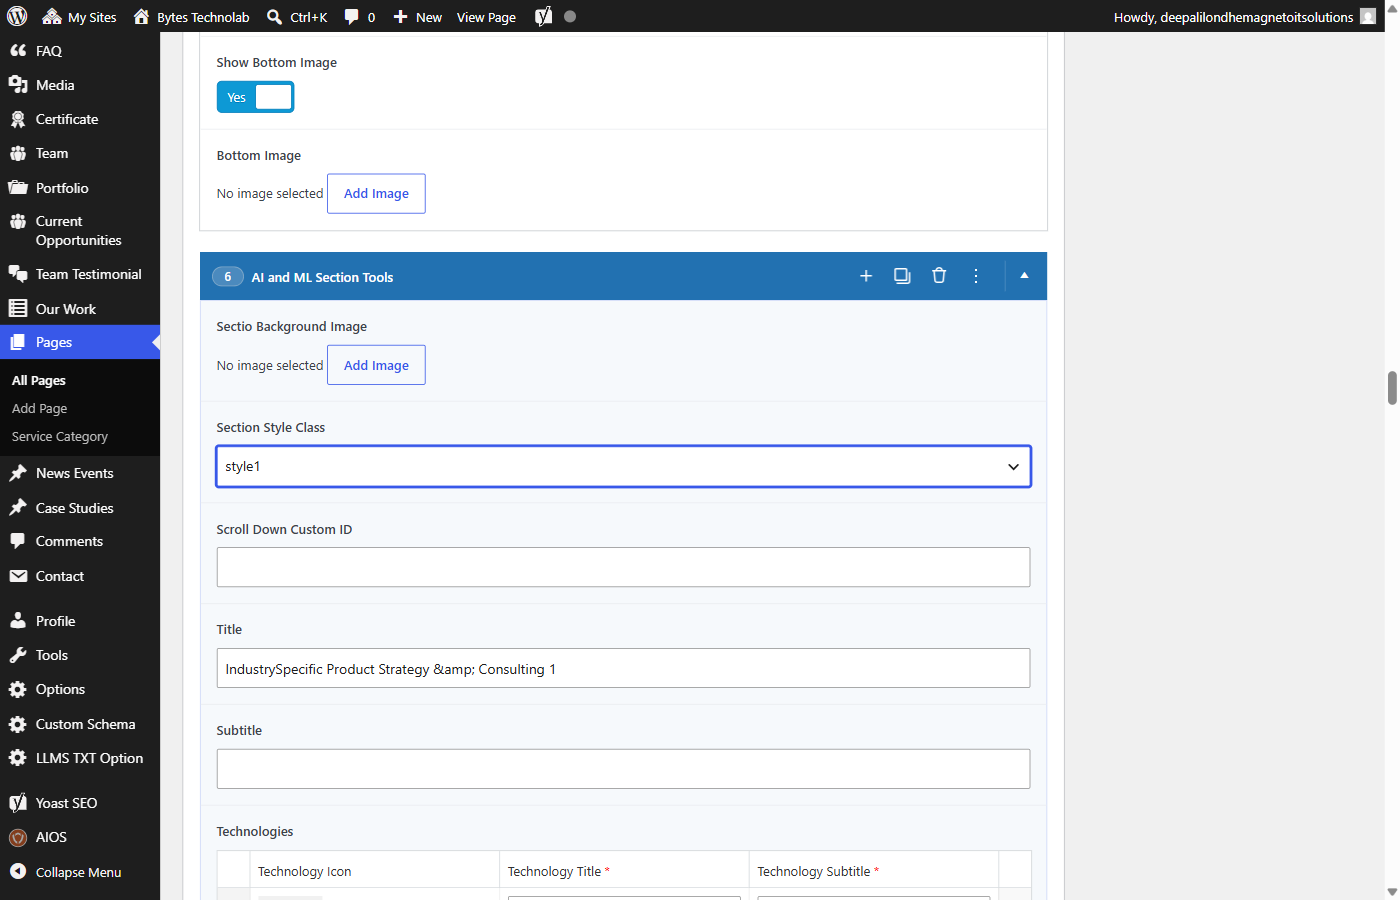
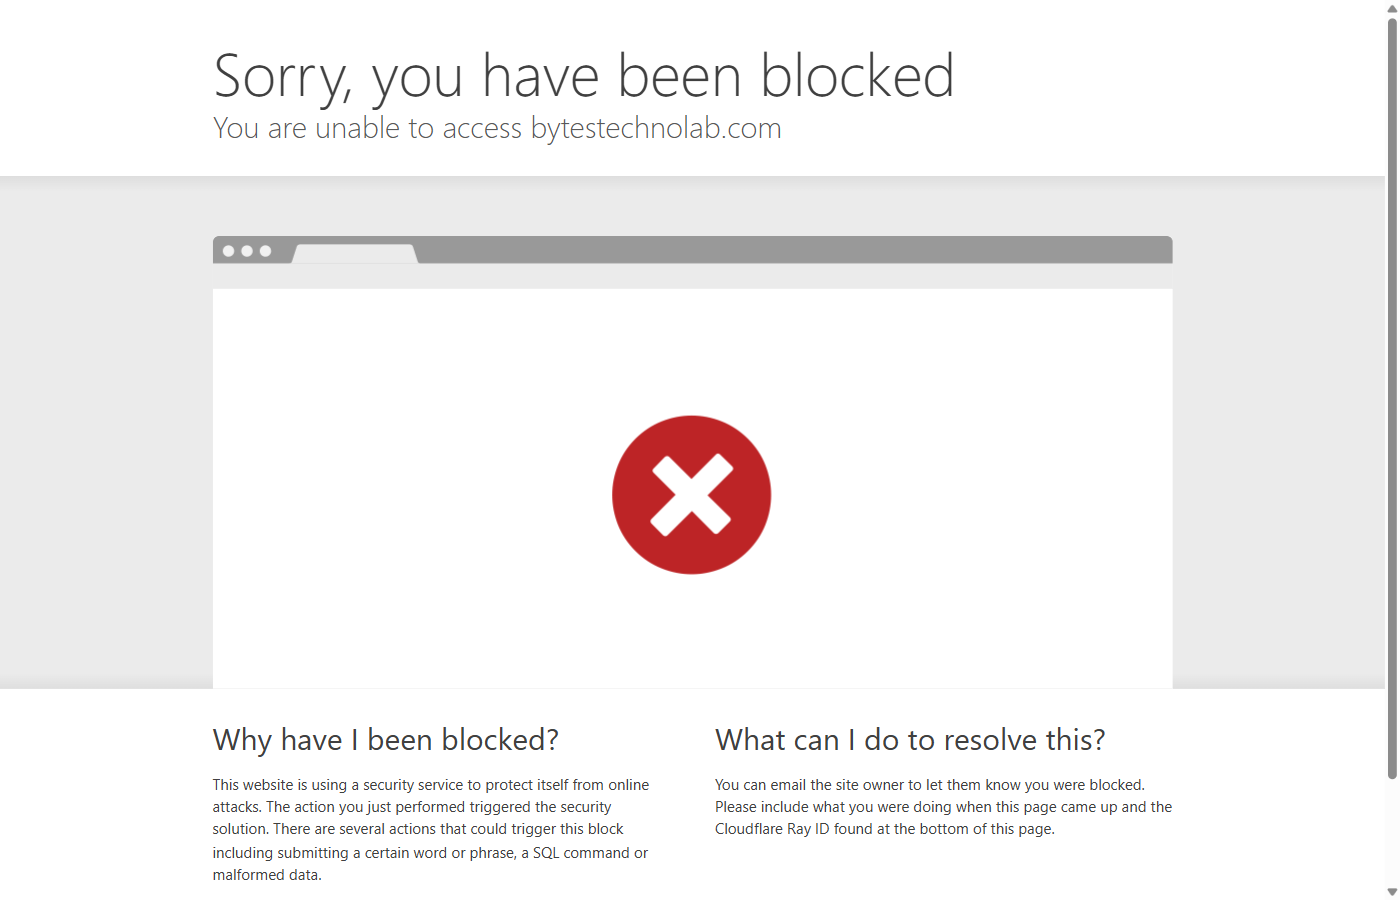
Use jQuery for Add Row and add 15s wait before close

diff --git a/cross_verify.js b/cross_verify.js
@@ -134,8 +134,10 @@ async function showMismatchPopup(page, mismatches) {
     document.body.appendChild(overlay);
   }, { rows, count });
 
-  console.log('  → Popup shown on screen. Waiting 4 seconds...');
-  await page.waitForTimeout(4000);
+  console.log('\n  → Script finished. Waiting 15 seconds so you can manually click Update if it failed...');
+  await page.waitForTimeout(15000);
+
+  console.log('\nClosing Chrome browser...');
 }
 
 // ─── Show success popup ───────────────────────────────────────────────────────
@@ -225,11 +227,17 @@ async function updateMismatchedFields(page, mismatches) {
 
     // Auto-add rows for Industries if missing
     if (count === 0 && field.name.startsWith('Industry')) {
-      const addRowBtn = page.locator('[data-key="field_66acdba41bff5"] > .acf-input > .acf-repeater > .acf-actions > a[data-event="add-row"]');
+      const addRowBtn = page.locator('[data-key="field_66acdba41bff5"] .acf-actions a[data-event="add-row"]');
       if (await addRowBtn.count() > 0) {
-        console.log(`  Row missing for ${field.name}! Clicking Add Row...`);
-        await addRowBtn.last().evaluate(el => el.click()).catch(() => {});
-        await page.waitForTimeout(1500); // Wait for animation
+        console.log(`  Row missing for ${field.name}! Clicking Add Row via jQuery...`);
+        await addRowBtn.last().evaluate(el => {
+          if (typeof window.jQuery !== 'undefined') {
+            window.jQuery(el).trigger('click');
+          } else {
+            el.click();
+          }
+        }).catch(() => {});
+        await page.waitForTimeout(2000); // Wait for animation
         locator = page.locator(field.selector); // re-evaluate
         count = await locator.count();
       }
@@ -593,6 +601,8 @@ async function run() {
     console.error('\n❌ Error during cross-verification:', err.message);
     if (page) await page.screenshot({ path: './cross_verify_error.png' }).catch(() => {});
   } finally {
+    console.log('\n  → Script finished! Waiting 15 seconds before closing so you can click Update manually if it failed...');
+    await page.waitForTimeout(15000);
     console.log('\nClosing Chrome browser...');
     await browser.close();
     console.log('\n==================================================');
